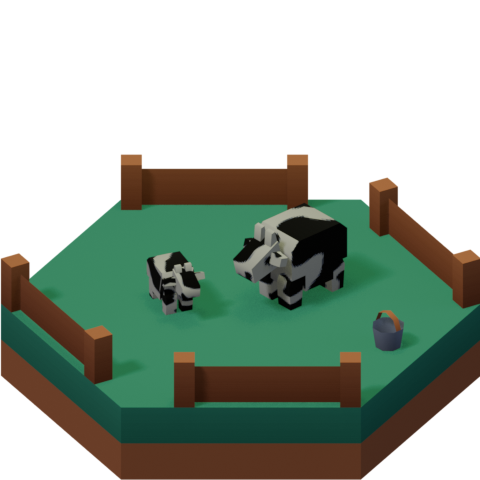
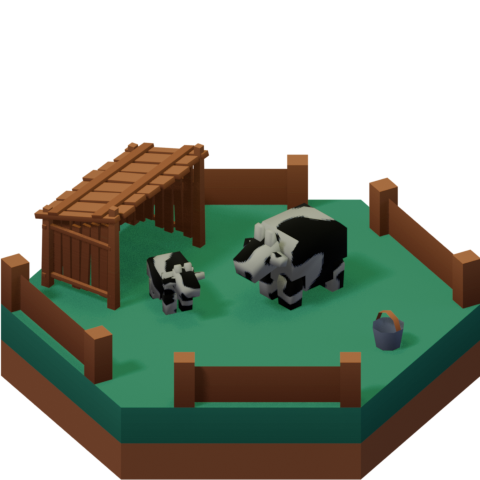
adding missing cow path building

Changed region(s): [[0.0625, 0.2812, 0.5938, 0.6562], [0.5938, 0.5625, 0.625, 0.5938]]

diff --git a/blender/glb_render_all.py b/blender/glb_render_all.py
@@ -1,6 +1,6 @@
 import bpy, os
 
-dirpath = '/home/bex/Documents/blender/hexagonset_renders'
+dirpath = '/home/bex/Repos/hexart/hexagonset_renders'
 
 def set_render_self_and_children(glb, show):
     glb.hide_render = not show
